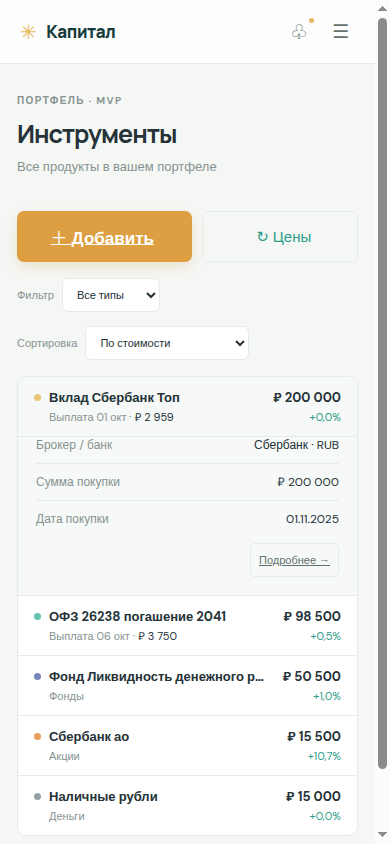
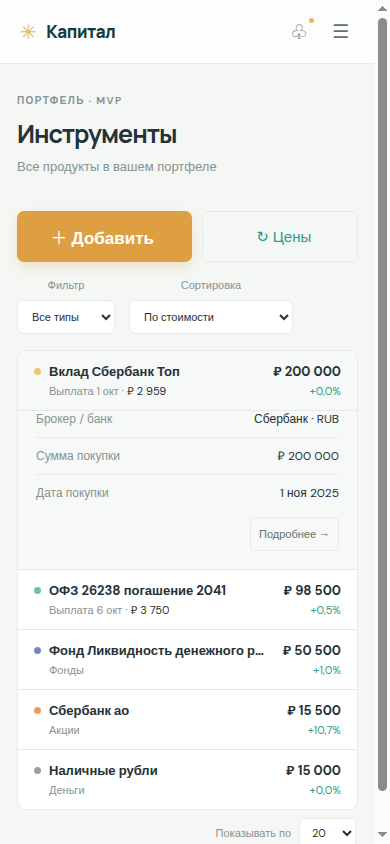
fix: polish product row - button underlines, mobile filter alignment, unified date format
- Reset text-decoration on all button/link-button classes (primary,
  outline, delete, logout, text, tiny, round-arrow, icon, sync) plus
  their hover/visited states — Link-rendered buttons were leaking the
  browser's default anchor underline.
- Mobile filters-bar now lays Фильтр/Сортировка out as two equal
  columns with the label above the select, so both start at the same
  x and share the same width instead of drifting per label length.
- Unified short date format across the product row and its expanded
  detail panel ("1 окт" / "1 ноя 2025", no leading zero) by switching
  dateLabel to a non-padded day and a fixed 3-letter Russian month
  list instead of Intl, which produced inconsistent abbreviation
  lengths ("окт" vs "нояб") across engines.

Verified the nearest-payout logic itself: the deposit case the owner
flagged (purchased 2025-11-01, showing "Выплата 1 окт") is correct —
it's a monthly-interest deposit whose nearest non-overdue forecast
payment genuinely lands on Oct 1 of the current year.

diff --git a/src/App.css b/src/App.css
@@ -6,7 +6,7 @@
 .portfolio-switcher { margin: 54px 4px 25px; padding-bottom: 18px; border-bottom: 1px solid rgba(255,255,255,.15); position: relative; }.switcher-label, .card-label, .eyebrow { display: block; color: #8da6a0; font-size: 10px; font-weight: 700; letter-spacing: 1.4px; }.portfolio-switcher strong { display: block; margin-top: 8px; font-size: 14px; color: #fff; }.chevron { position: absolute; right: 4px; bottom: 16px; color: #9bb1ac; }
 .nav-list { display: grid; gap: 5px; }.nav-item { position: relative; display: block; width: 100%; border: 0; text-decoration: none; border-radius: 8px; padding: 12px 13px; text-align: left; color: #a9c0ba; background: transparent; font-size: 13px; transition: .2s ease; }.nav-item:hover, .nav-item.active { color: #fff; background: #245451; }.nav-icon { display: inline-block; width: 25px; color: #80b7ab; font-size: 17px; vertical-align: -1px; }.nav-item.active .nav-icon { color: #efd37e; }.notification-dot, .alert-dot { display: inline-block; width: 6px; height: 6px; border-radius: 50%; background: #e6b961; }.notification-dot { position: absolute; right: 17px; top: 13px; }.sidebar-bottom { margin-top: auto; }.profile { display: flex; align-items: center; gap: 10px; padding: 20px 5px 0; border-top: 1px solid rgba(255,255,255,.15); }.avatar { display: grid; place-items: center; width: 33px; height: 33px; border-radius: 50%; color: #17423e; background: #e4c271; font-size: 13px; font-weight: 700; }.profile strong, .profile small { display: block; }.profile strong { font-size: 12px; color: #fff; }.profile small { margin-top: 2px; font-size: 10px; color: #88a39b; }.more { margin-left: auto; color: #81a19a; letter-spacing: 2px; }
 .main-content { flex: 1; min-width: 0; }.topbar { height: 75px; padding: 0 4.7vw; display: flex; align-items: center; justify-content: flex-end; border-bottom: 1px solid var(--line); background: var(--topbar-bg); }.mobile-brand, .mobile-menu { display: none; }.top-actions { display: flex; align-items: center; gap: 25px; }.sync-status { color: var(--muted); font-size: 11px; }.sync-dot { display: inline-block; width: 6px; height: 6px; margin-right: 7px; border-radius: 50%; background: var(--mint); }.icon-button { position: relative; border: 0; color: var(--text-secondary); background: transparent; font-size: 20px; }.alert-dot { position: absolute; top: 0; right: 0; width: 5px; height: 5px; }
-.content-wrap { max-width: 1190px; margin: 0 auto; padding: 52px 5vw calc(42px + env(safe-area-inset-bottom, 0px)); }.page-heading, .section-heading { display: flex; align-items: flex-end; justify-content: space-between; gap: 20px; }.eyebrow { color: var(--muted); margin: 0 0 12px; }.page-heading h1 { margin: 0; color: var(--ink); font: 700 31px/1.2 'Manrope', sans-serif; letter-spacing: -1px; }.page-heading h1 span { color: #e2b753; font-size: 21px; vertical-align: 4px; }.subtitle, .section-heading p { margin: 9px 0 0; color: var(--muted); font-size: 13px; }.primary-button { border: 0; border-radius: 7px; padding: 13px 18px; color: #fff; background: #dd9f41; box-shadow: 0 5px 13px rgba(205,142,47,.2); font-size: 12px; font-weight: 700; }.primary-button span { margin-right: 4px; font-size: 17px; vertical-align: -1px; }
+.content-wrap { max-width: 1190px; margin: 0 auto; padding: 52px 5vw calc(42px + env(safe-area-inset-bottom, 0px)); }.page-heading, .section-heading { display: flex; align-items: flex-end; justify-content: space-between; gap: 20px; }.eyebrow { color: var(--muted); margin: 0 0 12px; }.page-heading h1 { margin: 0; color: var(--ink); font: 700 31px/1.2 'Manrope', sans-serif; letter-spacing: -1px; }.page-heading h1 span { color: #e2b753; font-size: 21px; vertical-align: 4px; }.subtitle, .section-heading p { margin: 9px 0 0; color: var(--muted); font-size: 13px; }.primary-button { border: 0; border-radius: 7px; padding: 13px 18px; color: #fff; background: #dd9f41; box-shadow: 0 5px 13px rgba(205,142,47,.2); font-size: 12px; font-weight: 700; }.primary-button span { margin-right: 4px; font-size: 17px; vertical-align: -1px; }.primary-button, .primary-button:hover, .primary-button:visited, .outline-button, .outline-button:hover, .outline-button:visited, .delete-button, .delete-button:hover, .delete-button:visited, .logout-button, .logout-button:hover, .logout-button:visited, .text-button, .text-button:hover, .text-button:visited, .tiny-button, .tiny-button:hover, .tiny-button:visited, .round-arrow, .round-arrow:hover, .round-arrow:visited, .icon-button, .icon-button:hover, .icon-button:visited, .sync-button, .sync-button:hover, .sync-button:visited { text-decoration: none; }
 .hero-grid, .lower-grid { display: grid; grid-template-columns: 1.55fr 1fr; gap: 18px; }.hero-grid { margin-top: 40px; }.total-card, .metrics-card, .allocation-card, .payments-card { border: 1px solid var(--line); border-radius: 9px; background: var(--paper); box-shadow: 0 9px 24px var(--shadow-color); }.total-card { padding: 28px 30px 20px; }.metrics-card { padding: 28px 28px 20px; }.card-label { color: var(--muted); }.tiny-button { padding: 0 0 0 5px; border: 0; color: var(--muted); background: transparent; font-size: 11px; }.total-value { margin-top: 13px; color: var(--ink); font: 800 34px/1 'Manrope', sans-serif; letter-spacing: -1.5px; }.total-currency { margin-left: 9px; color: var(--muted); font: 600 10px 'DM Sans', sans-serif; letter-spacing: 1px; }.profit-line { display: flex; align-items: center; gap: 9px; margin-top: 13px; font-size: 12px; }.positive-pill { padding: 4px 8px; border-radius: 5px; color: var(--mint); background: var(--mint-soft); font-weight: 700; }.negative-pill { padding: 4px 8px; border-radius: 5px; color: var(--danger); background: var(--danger-soft); font-weight: 700; }.neutral-pill { padding: 4px 8px; border-radius: 5px; color: var(--muted); background: var(--line); font-weight: 700; }.profit-line strong.danger-text, .profit-line strong.muted { color: inherit; }.profit-line strong { color: var(--mint); }.muted { color: var(--muted); }.chart { position: relative; height: 151px; margin-top: 21px; overflow: hidden; }.chart-grid { position: absolute; inset: 0; display: flex; flex-direction: column; justify-content: space-between; }.chart-grid span { border-top: 1px dashed var(--line); }.chart svg { width: 100%; height: 100%; position: relative; }.chart-footer { display: flex; align-items: center; justify-content: space-between; color: var(--muted); font-size: 9px; font-weight: 700; letter-spacing: .5px; }.periods { display: flex; gap: 4px; margin-left: auto; padding-left: 15px; }.periods button { border: 0; border-radius: 4px; padding: 6px 8px; color: var(--muted); background: transparent; font-size: 10px; }.periods .selected { color: var(--mint); background: var(--mint-soft); }.metric-row { display: flex; align-items: center; justify-content: space-between; margin-top: 22px; color: var(--muted); font-size: 12px; }.metric-row strong { color: var(--ink); font-size: 13px; }.teal-text { color: var(--mint) !important; }.text-button { display: flex; justify-content: space-between; width: 100%; margin-top: 27px; padding: 15px 0 0; border: 0; border-top: 1px solid var(--line); color: var(--mint); background: transparent; font-size: 11px; font-weight: 700; }.text-button span { font-size: 17px; }.section-heading { margin: 45px 0 17px; align-items: center; }.section-heading h2 { margin: 0; font: 700 18px 'Manrope', sans-serif; letter-spacing: -.5px; }.section-heading p { margin-top: 5px; }.outline-button { border: 1px solid var(--line); border-radius: 5px; padding: 9px 12px; color: var(--text-secondary); background: transparent; font-size: 11px; }.outline-button span { margin-left: 8px; color: var(--mint); font-size: 15px; }.lower-grid { grid-template-columns: 1.15fr 1fr; }.allocation-card { display: flex; align-items: center; gap: 29px; padding: 26px 28px; }.donut-wrap { flex: 0 0 133px; }.donut { display: grid; place-items: center; width: 133px; height: 133px; border-radius: 50%; }.donut::after { content: ''; position: absolute; width: 99px; height: 99px; border-radius: 50%; background: var(--paper); }.donut > div { position: relative; z-index: 1; text-align: center; }.donut strong, .donut small { display: block; }.donut strong { font: 700 16px 'Manrope', sans-serif; }.donut small { margin-top: 3px; color: var(--muted); font-size: 9px; }.holding-list { flex: 1; }.holding-row { display: flex; align-items: center; gap: 9px; padding: 8px 0; }.legend { flex: 0 0 8px; width: 8px; height: 8px; border-radius: 2px; }.legend.teal { background: #65c4b1; }.legend.coral { background: #e7a05b; }.legend.amber { background: #ebc677; }.legend.indigo { background: #7787ba; }.legend.slate { background: #93a1a6; }.legend.pink { background: #d98bbd; }.holding-name { flex: 1; }.holding-name strong, .holding-name small, .holding-value strong, .holding-value small { display: block; }.holding-name strong, .holding-value strong { color: var(--ink); font-size: 11px; }.holding-name small, .holding-value small { margin-top: 2px; color: var(--muted); font-size: 9px; }.holding-value { text-align: right; }.share { width: 29px; color: var(--muted); text-align: right; font-size: 10px; }
 .payments-card { padding: 1px 26px 20px; }.section-heading.compact { margin: 22px 0 14px; }.round-arrow { display: grid; place-items: center; width: 30px; height: 30px; border: 1px solid var(--line); border-radius: 50%; color: var(--mint); background: var(--paper); }.payment-row { display: flex; align-items: center; gap: 11px; padding: 13px 0; border-top: 1px solid var(--line); }.date-box { display: grid; place-items: center; width: 36px; height: 39px; border-radius: 5px; background: var(--mint-soft); }.date-box strong { color: var(--mint); font: 700 14px 'Manrope', sans-serif; line-height: 1; }.date-box small { color: var(--muted); font-size: 8px; }.payment-info { flex: 1; }.payment-info strong, .payment-info small { display: block; }.payment-info strong { color: var(--ink); font-size: 11px; }.payment-info small { margin-top: 3px; color: var(--muted); font-size: 9px; }.payment-value { color: var(--mint); font-size: 11px; }.full-width { margin-top: 12px; }.demo-note { margin-top: 22px; padding: 12px 14px; border: 1px solid var(--line); border-radius: 6px; color: var(--muted); background: var(--mint-soft); font-size: 11px; }.demo-note span { margin-right: 7px; color: #d7a84e; }.toast { position: fixed; right: 25px; bottom: 25px; padding: 14px 17px; border-radius: 7px; color: #fff; background: #1e5b55; box-shadow: 0 9px 25px rgba(18,61,57,.2); font-size: 12px; animation: rise .25s ease-out; }@keyframes rise { from { transform: translateY(10px); opacity: 0; } to { transform: translateY(0); opacity: 1; } }
 @media (max-width: 960px) { .sidebar { width: 205px; flex-basis: 205px; }.content-wrap { padding-inline: 3vw; }.hero-grid, .lower-grid { grid-template-columns: 1fr; } }
@@ -17,7 +17,7 @@
 .wizard-steps { display: flex; gap: 8px; margin: 0 0 22px; padding: 0; list-style: none; }.wizard-steps li { flex: 1; padding-bottom: 10px; border-bottom: 3px solid var(--line); color: var(--muted); font-size: 10px; font-weight: 700; letter-spacing: .3px; text-transform: uppercase; text-align: center; }.wizard-steps li.done { border-color: var(--mint); color: var(--mint); }.wizard-steps li.active { border-color: var(--mint); color: var(--ink); }.type-grid { display: grid; grid-template-columns: repeat(auto-fit, minmax(140px, 1fr)); gap: 14px; }.type-card { flex-direction: column; align-items: flex-start; gap: 10px; cursor: pointer; }.type-card .empty-option-icon { font-size: 26px; }.wizard-actions { display: flex; gap: 12px; margin-top: 4px; }.wizard-actions .outline-button, .wizard-actions .primary-button { flex: 1; }
 .integration-card { max-width: 680px; padding: 25px; border: 1px solid var(--line); border-radius: 9px; background: var(--paper); }.integration-heading { display: flex; align-items: center; gap: 13px; margin-bottom: 25px; }.broker-logo { display: grid; place-items: center; width: 42px; height: 42px; border-radius: 8px; color: #fff; background: #e7a84f; font: 700 22px 'Manrope', sans-serif; }.integration-heading h2 { margin: 0; color: var(--ink); font: 700 16px 'Manrope', sans-serif; }.integration-heading p { margin: 5px 0 0; color: var(--muted); font-size: 10px; }.connection-state { margin-left: auto; padding: 6px 8px; border-radius: 5px; color: var(--muted); background: var(--bg-subtle); font-size: 10px; }.connection-state.pending { color: #9c7530; background: #fff6dc; }.connection-state.connected { color: var(--mint); background: var(--mint-soft); }.field-hint { color: var(--muted); font-size: 10px; }.sync-button { margin-top: 15px; }
 .chart-empty { display: grid; place-items: center; height: 100%; padding: 0 20px; color: var(--muted); background: repeating-linear-gradient(-45deg, var(--paper), var(--paper) 8px, var(--bg-subtle) 8px, var(--bg-subtle) 16px); text-align: center; font-size: 11px; }
-@media (max-width: 680px) { .table-head { display: none; }.table-row { grid-template-columns: 1fr auto; gap: 9px; padding: 15px; }.table-row > :nth-child(2), .table-row > :nth-child(4), .table-row > :nth-child(5) { justify-self: end; }.payment-grid, .analytics-grid { grid-template-columns: 1fr; }.inner-page { padding-top: 30px; }.toolbar { justify-content: stretch; flex-wrap: nowrap; }.toolbar > * { flex: 1; min-width: 0; overflow: hidden; text-overflow: ellipsis; white-space: nowrap; text-align: center; }.label-full { display: none; }.label-short { display: inline; }.login-card { padding: 27px 21px; } }
+@media (max-width: 680px) { .table-head { display: none; }.table-row { grid-template-columns: 1fr auto; gap: 9px; padding: 15px; }.table-row > :nth-child(2), .table-row > :nth-child(4), .table-row > :nth-child(5) { justify-self: end; }.payment-grid, .analytics-grid { grid-template-columns: 1fr; }.inner-page { padding-top: 30px; }.toolbar { justify-content: stretch; flex-wrap: nowrap; }.toolbar > * { flex: 1; min-width: 0; overflow: hidden; text-overflow: ellipsis; white-space: nowrap; text-align: center; }.label-full { display: none; }.label-short { display: inline; }.filters-bar { display: grid; grid-template-columns: 1fr 1fr; gap: 10px; }.inline-select { flex-direction: column; align-items: stretch; gap: 4px; }.inline-select select { width: 100%; }.login-card { padding: 27px 21px; } }
 .row-actions { display: flex; flex-wrap: wrap; justify-content: flex-end; gap: 8px; }.row-actions .outline-button, .row-actions .delete-button { padding: 7px 9px; }.back-button { margin-bottom: 18px; }.form-error { display: block; margin-top: 6px; color: var(--danger); font-size: 10px; }.confirm-card { max-width: 520px; padding: 26px; border: 1px solid var(--line); border-radius: 8px; background: var(--paper); }.confirm-card p { margin: 0 0 20px; color: var(--ink); font-size: 13px; line-height: 1.6; }.confirm-actions { display: flex; gap: 12px; }.delete-button.primary { padding: 13px 18px; border: 1px solid var(--border-danger); border-radius: 7px; color: var(--danger); background: var(--danger-soft); font-weight: 700; }
 .empty-portfolio { display: grid; justify-items: center; gap: 28px; max-width: 520px; margin: 40px auto 0; text-align: center; }.empty-portfolio h1 { margin: 0; color: var(--ink); font: 700 20px 'Manrope', sans-serif; }.empty-options { display: grid; gap: 14px; width: 100%; }.empty-option { display: flex; align-items: center; gap: 14px; padding: 18px 20px; border: 1px solid var(--line); border-radius: 9px; background: var(--paper); text-align: left; text-decoration: none; transition: border-color .15s, box-shadow .15s; }.empty-option:hover { border-color: var(--mint); box-shadow: 0 4px 14px rgba(42,90,77,.08); }.empty-option-icon { font-size: 22px; }.empty-option strong { display: block; color: var(--ink); font-size: 13px; }.empty-option small { display: block; margin-top: 3px; color: var(--muted); font-size: 11px; }
 .details-block { border: 1px solid var(--line); border-radius: 7px; padding: 12px 14px; background: var(--bg-subtle); }.details-block summary { cursor: pointer; color: var(--ink); font-size: 12px; font-weight: 700; }.details-fields { display: grid; gap: 13px; margin-top: 14px; }.checkbox-label { display: flex !important; flex-direction: row-reverse; align-items: center; justify-content: flex-end; gap: 9px; }.checkbox-label input { width: auto !important; }

diff --git a/src/AppMvp.tsx b/src/AppMvp.tsx
@@ -633,16 +633,24 @@ function parseIsoDate(date: string | undefined | null): Date | null {
 }
 // Короткие даты. Год добавляется, когда дата не в текущем году (BUG-07): иначе
 // полугодовые купоны на годы вперёд читались как одна выплата, повторённая 12 раз.
+// Фиксированный трёхбуквенный список, а не Intl.DateTimeFormat: ICU-сокращения
+// для русского в разных браузерах/ОС не одной длины («окт» — 3 буквы, «нояб» — 4),
+// из-за чего «1 окт»/«1 нояб» выглядели непарно — фиксированный список даёт
+// единообразный формат везде, независимо от движка.
+const RU_SHORT_MONTHS = ["янв", "фев", "мар", "апр", "май", "июн", "июл", "авг", "сен", "окт", "ноя", "дек"];
 const shortMonth = (date: string) => {
   const parsed = parseIsoDate(date);
-  return parsed ? new Intl.DateTimeFormat("ru-RU", { month: "short" }).format(parsed).replace(".", "") : "";
+  return parsed ? RU_SHORT_MONTHS[parsed.getMonth()] : "";
 };
 const dayOfMonth = (date: string) => (parseIsoDate(date) ? date.slice(8, 10) : "—");
 const isCurrentYear = (date: string) => date.slice(0, 4) === todayIsoDate().slice(0, 4);
-const dateLabel = (date: string) =>
-  parseIsoDate(date)
-    ? `${dayOfMonth(date)} ${shortMonth(date)}${isCurrentYear(date) ? "" : ` ${date.slice(0, 4)}`}`
-    : "—";
+const dateLabel = (date: string) => {
+  const parsed = parseIsoDate(date);
+  if (!parsed) return "—";
+  // Без ведущего нуля («1 окт», не «01 окт») — единый короткий формат дат в карточке
+  // продукта и в остальных местах, где нужна не полная дата, а «день месяц[, год]».
+  return `${parsed.getDate()} ${shortMonth(date)}${isCurrentYear(date) ? "" : ` ${date.slice(0, 4)}`}`;
+};
 // «Ближайшие выплаты» на главном экране — горизонт, заявленный в подписи блока (BUG-06).
 const UPCOMING_HORIZON_DAYS = 60;
 function addDaysIso(date: string, days: number) {
@@ -2234,7 +2242,7 @@ function ProductsPage({
                     {parseIsoDate(product.date) && (
                       <div className="detail-line">
                         <span>Дата покупки</span>
-                        <span>{fullDate(product.date)}</span>
+                        <span>{dateLabel(product.date)}</span>
                       </div>
                     )}
                     <div className="list-row-actions">
